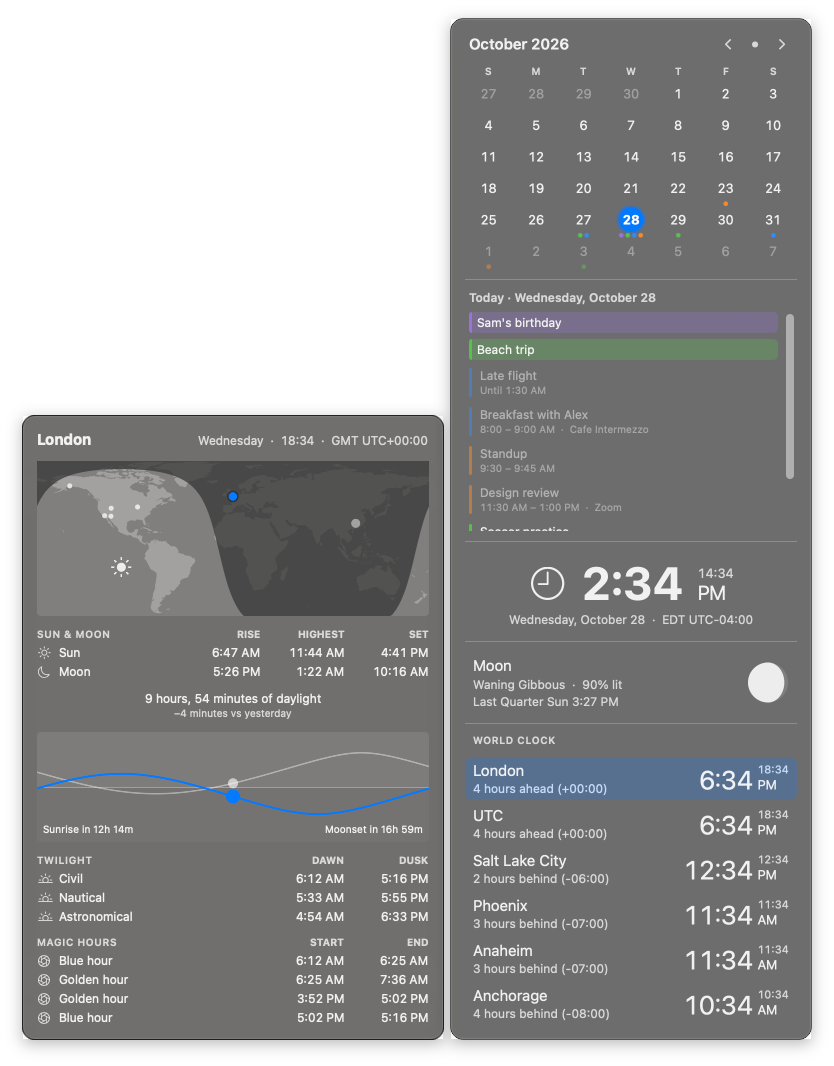
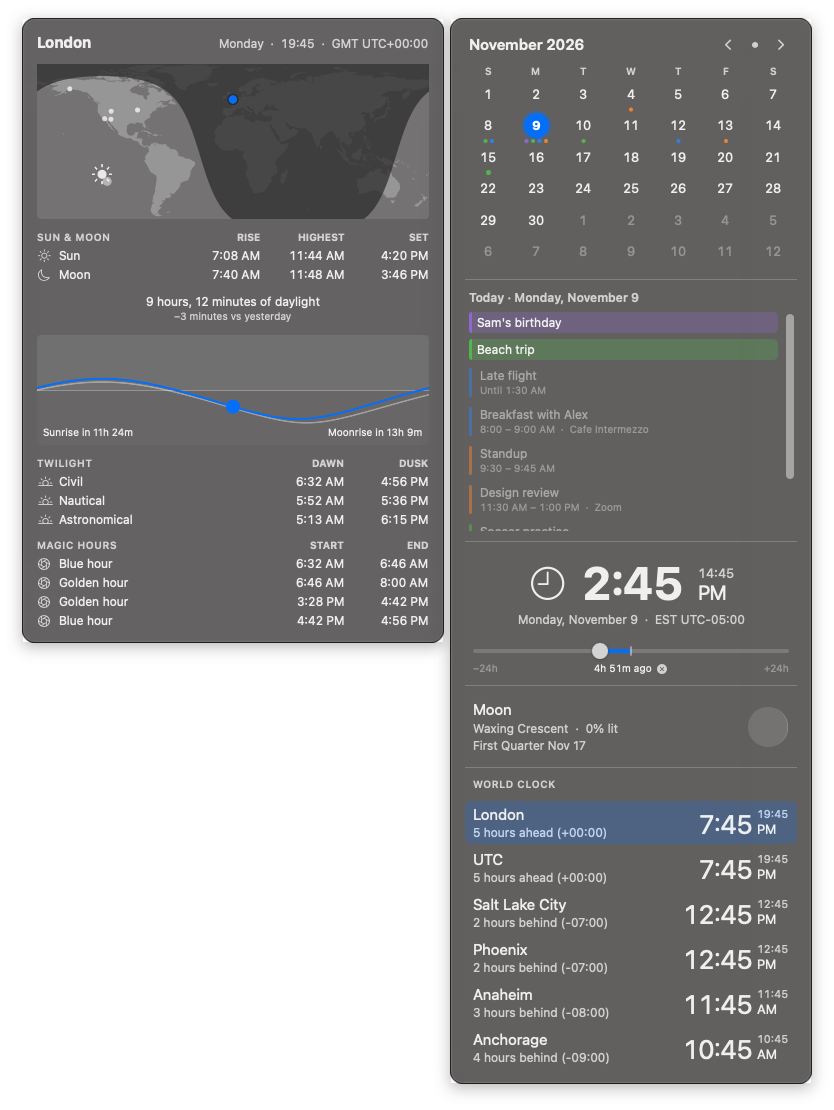
Retake the README's Time screenshot with the slider
The screenshot showed the panel from before the time slider. It is retaken
with the same made-up calendar and Chicago location as before, and with
the slider moved back to the afternoon, so it shows what the slider does:
the local time, the world clocks and London's pane are all at 2:45 PM.

Nothing could pose the slider without a pointer, so
MENU_WIDGETS_TIME_SHIFT=<steps> opens the popup with it moved, alone or
with MENU_WIDGETS_TIME_DETAIL.

Claude-Session: https://claude.ai/code/session_01ATosVKTLdF1CH92u2wXmKm

diff --git a/Sources/MenuWidgets/Time/TimeWidget.swift b/Sources/MenuWidgets/Time/TimeWidget.swift
@@ -27,15 +27,22 @@ final class TimeWidget: MenuWidget {
   /// MENU_WIDGETS_TIME_DETAIL=<n> opens the popup at launch with the pane on
   /// row n (-1 here, -3 the moon phases, 0.. the zones), for checking layout
   /// without a pointer. The desktop's `omarchy-shell ianneub.time detail <n>`.
+  /// MENU_WIDGETS_TIME_SHIFT=<steps> opens it with the time slider moved that
+  /// many quarter hours (negative for earlier), alone or with a pane.
   private func openForDebugging(_ host: PanelHost) {
     if let dir = ProcessInfo.processInfo.environment["MENU_WIDGETS_TIME_SNAPSHOT"] {
       DispatchQueue.main.async { [state] in Self.snapshot(state: state, host: host, to: dir) }
       return
     }
-    guard let raw = ProcessInfo.processInfo.environment["MENU_WIDGETS_TIME_DETAIL"], let n = Int(raw) else { return }
+    let detail = ProcessInfo.processInfo.environment["MENU_WIDGETS_TIME_DETAIL"].flatMap { Int($0) }
+    let shift = ProcessInfo.processInfo.environment["MENU_WIDGETS_TIME_SHIFT"].flatMap { Int($0) }
+    guard detail != nil || shift != nil else { return }
     DispatchQueue.main.asyncAfter(deadline: .now() + 0.5) { [state] in
       host.controller?.open()
-      DispatchQueue.main.asyncAfter(deadline: .now() + 0.3) { state.shownIndex = n }
+      DispatchQueue.main.asyncAfter(deadline: .now() + 0.3) {
+        if let shift { state.setShift(shift) }
+        if let detail { state.shownIndex = detail }
+      }
     }
   }
 

diff --git a/CLAUDE.md b/CLAUDE.md
@@ -25,7 +25,7 @@ The installed app runs as LaunchAgent `com.ianneub.menu-widgets`; its log is `~/
 
 Set these when launching the binary to check UI without clicking. Stop the installed copy first (`launchctl bootout gui/$(id -u)/com.ianneub.menu-widgets`), or every status item shows twice, and start it again afterwards (`launchctl bootstrap gui/$(id -u) ~/Library/LaunchAgents/com.ianneub.menu-widgets.plist`). The unbundled `.build/debug/MenuWidgets` crashes at launch while Mail is enabled, because notifications need an app bundle, so either turn `mail.enabled` off for the run or launch `build/MenuWidgets.app/Contents/MacOS/MenuWidgets` (a release build, so without the debug-only `MENU_WIDGETS_SNAPSHOT`).
 - `MENU_WIDGETS_OPEN=<widget id>` opens that widget's popup at launch.
-- `MENU_WIDGETS_TIME_DETAIL=<n>` (`-1` local time, `-3` moon phases, `0…` zones), `MENU_WIDGETS_WEATHER_DETAIL=<n>` (day row), `MENU_WIDGETS_REMINDERS_EDIT=<row>[,<preset>]` open a popup with a specific side pane/form.
+- `MENU_WIDGETS_TIME_DETAIL=<n>` (`-1` local time, `-3` moon phases, `0…` zones), `MENU_WIDGETS_WEATHER_DETAIL=<n>` (day row), `MENU_WIDGETS_REMINDERS_EDIT=<row>[,<preset>]` open a popup with a specific side pane/form. `MENU_WIDGETS_TIME_SHIFT=<steps>` opens the time popup with its slider moved that many quarter hours (negative for earlier), alone or with `MENU_WIDGETS_TIME_DETAIL`.
 - `MENU_WIDGETS_TIME_SNAPSHOT=<dir>` renders the time panel and panes to PNGs (light and dark) and quits. `MENU_WIDGETS_SNAPSHOT=<dir>` (debug builds only) writes the agents panel and label to PNGs, in the current appearance, after every refresh, and the app keeps running.
 - `MENU_WIDGETS_CALENDAR_DEMO=1` fills the time popup's month calendar with made-up events instead of reading EventKit.
 - `MENU_WIDGETS_AGENTS_DEMO=1` (or `=running`) swaps in fake Claude limits, one per style; `=tight` and `=fine` drop the ones worse than that, for the label's orange and plain states.

diff --git a/README.md b/README.md
@@ -101,10 +101,11 @@ The menu-bar labels, in each of their states:
 
 The panels, with made-up reminders, mail and calendar events. Time and
 Weather are shown with a row hovered, and its detail pane beside the panel.
+Time's slider is moved to earlier in the day.
 
 ### Time
 
-<img src="Assets/screenshots/time.png" alt="The Time panel: a month calendar with today's events, the local time, the moon and world clocks, with London's day/night map, sun and moon times, twilight and golden hours beside it">
+<img src="Assets/screenshots/time.png" alt="The Time panel: a month calendar with today's events, the local time with the slider under it moved back to 2:45 PM, the moon and world clocks at that time, with London's day/night map, sun and moon times, twilight and golden hours beside it">
 
 ### Weather
 
